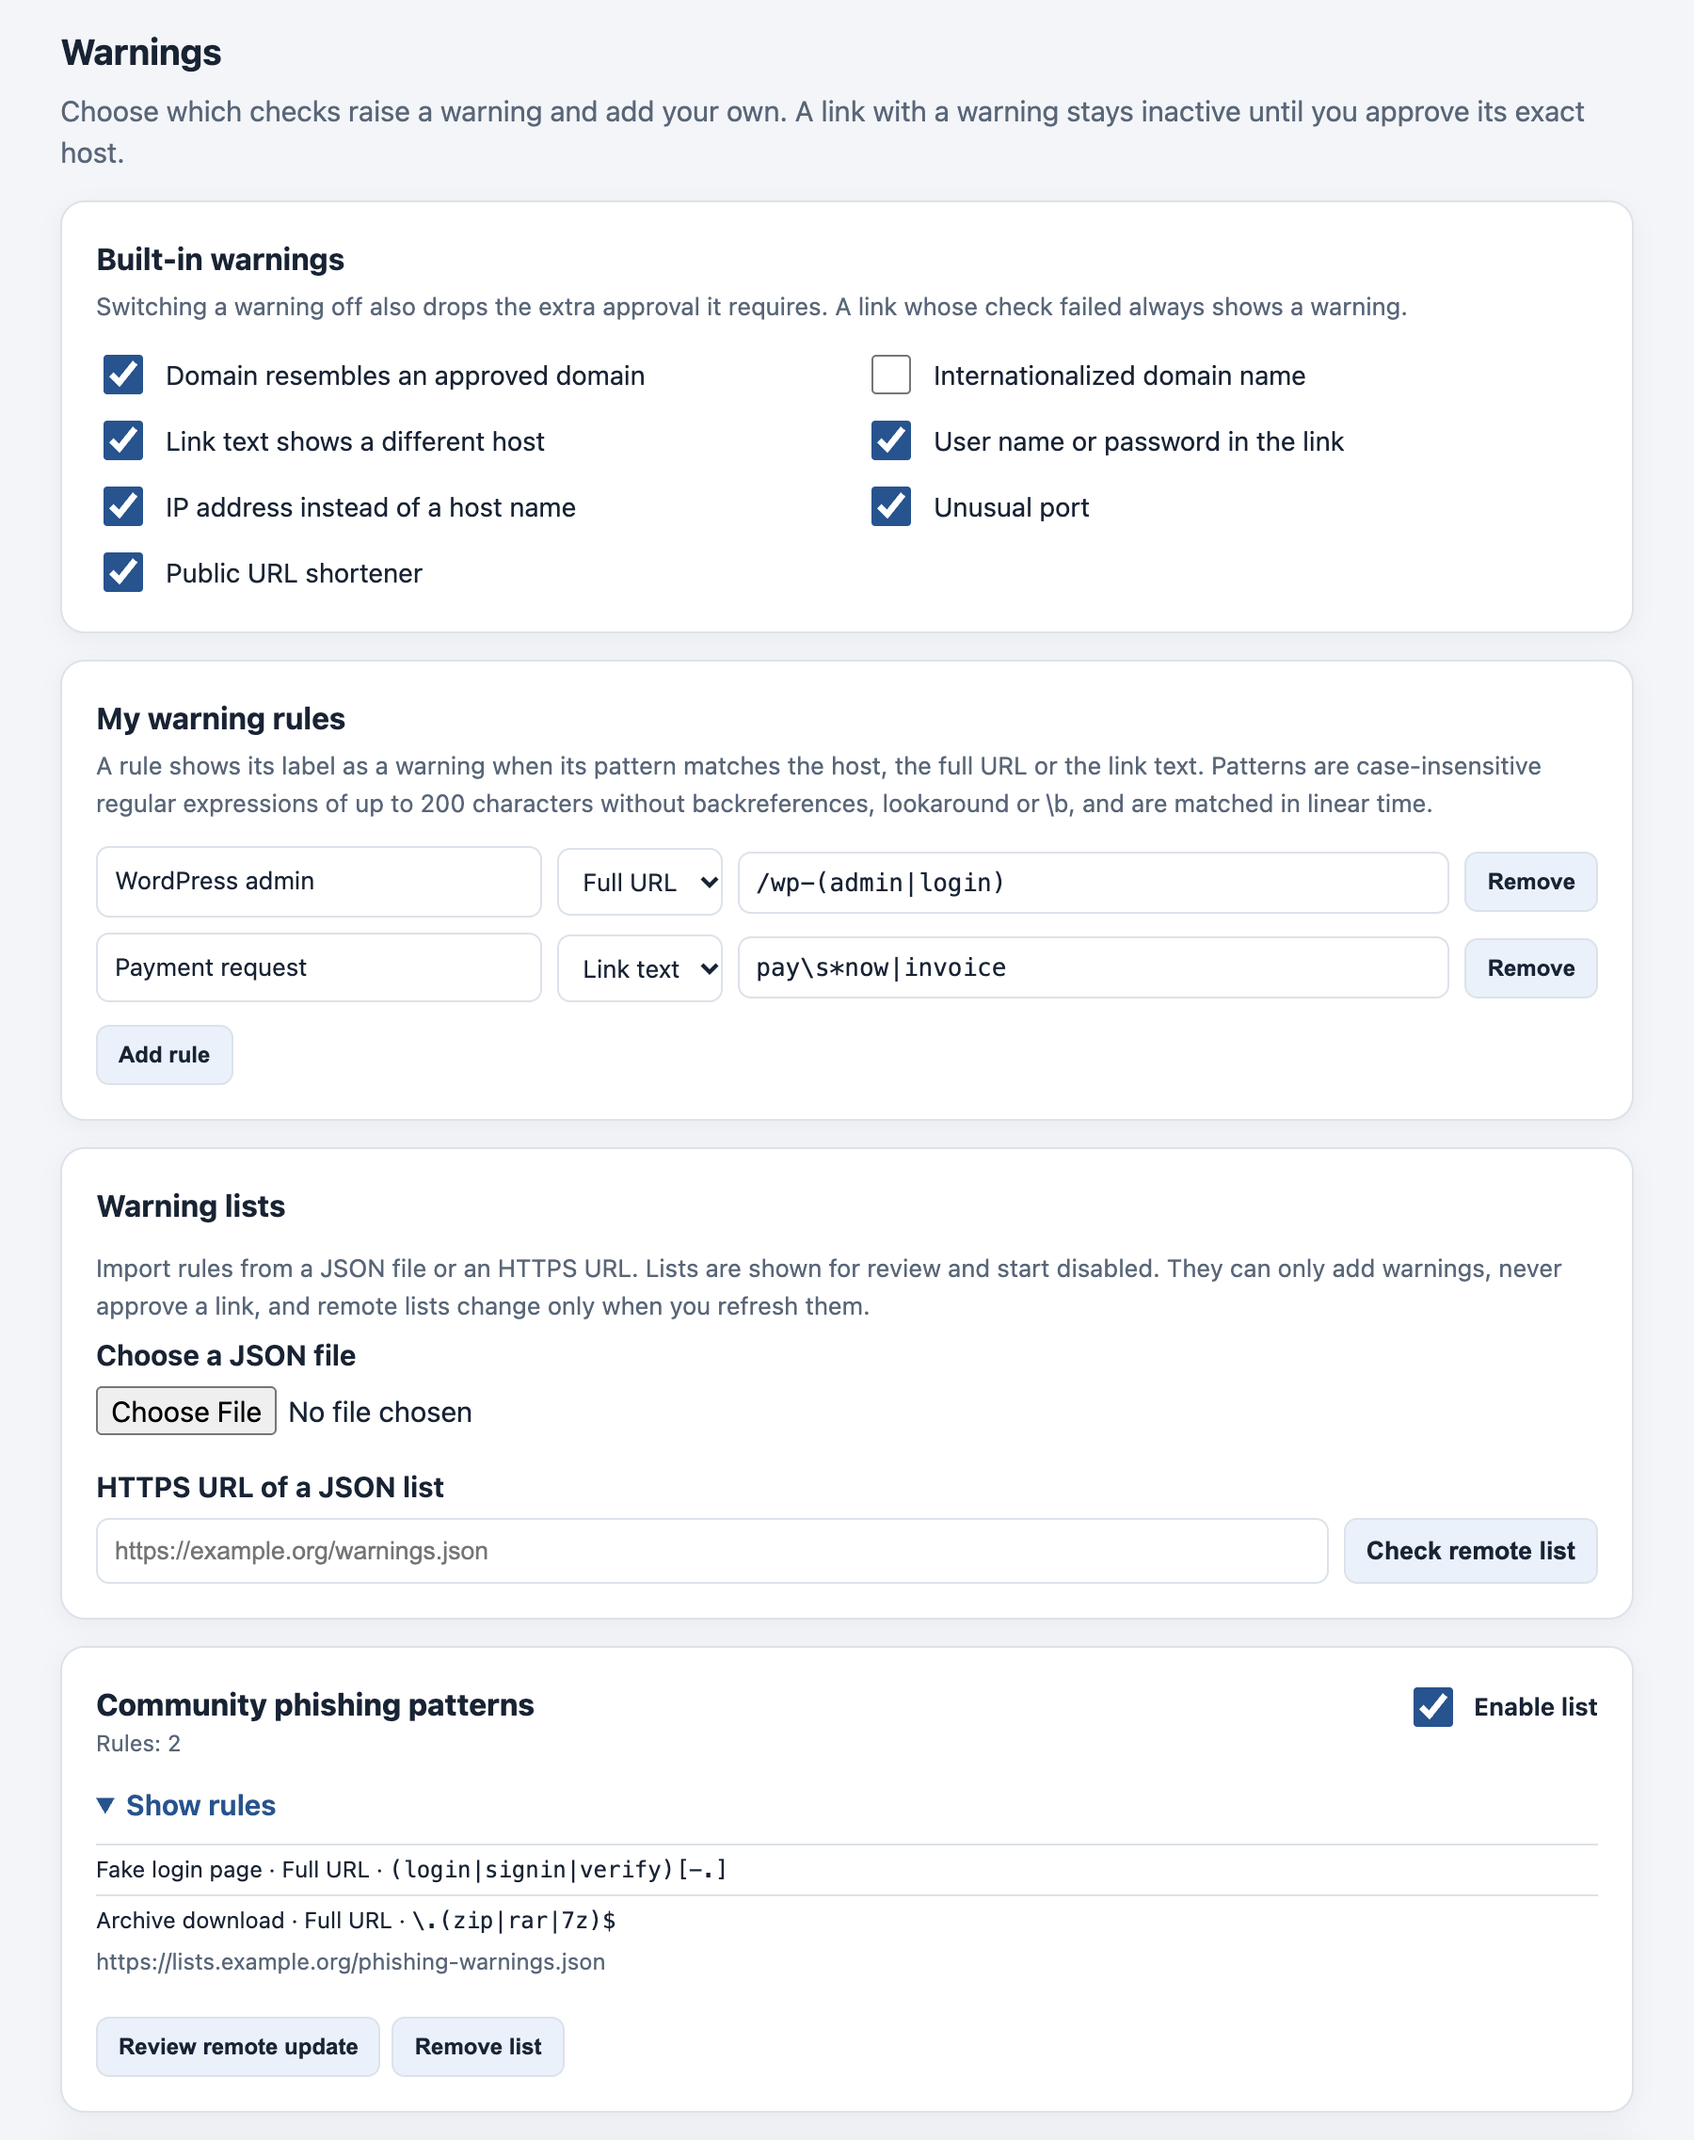
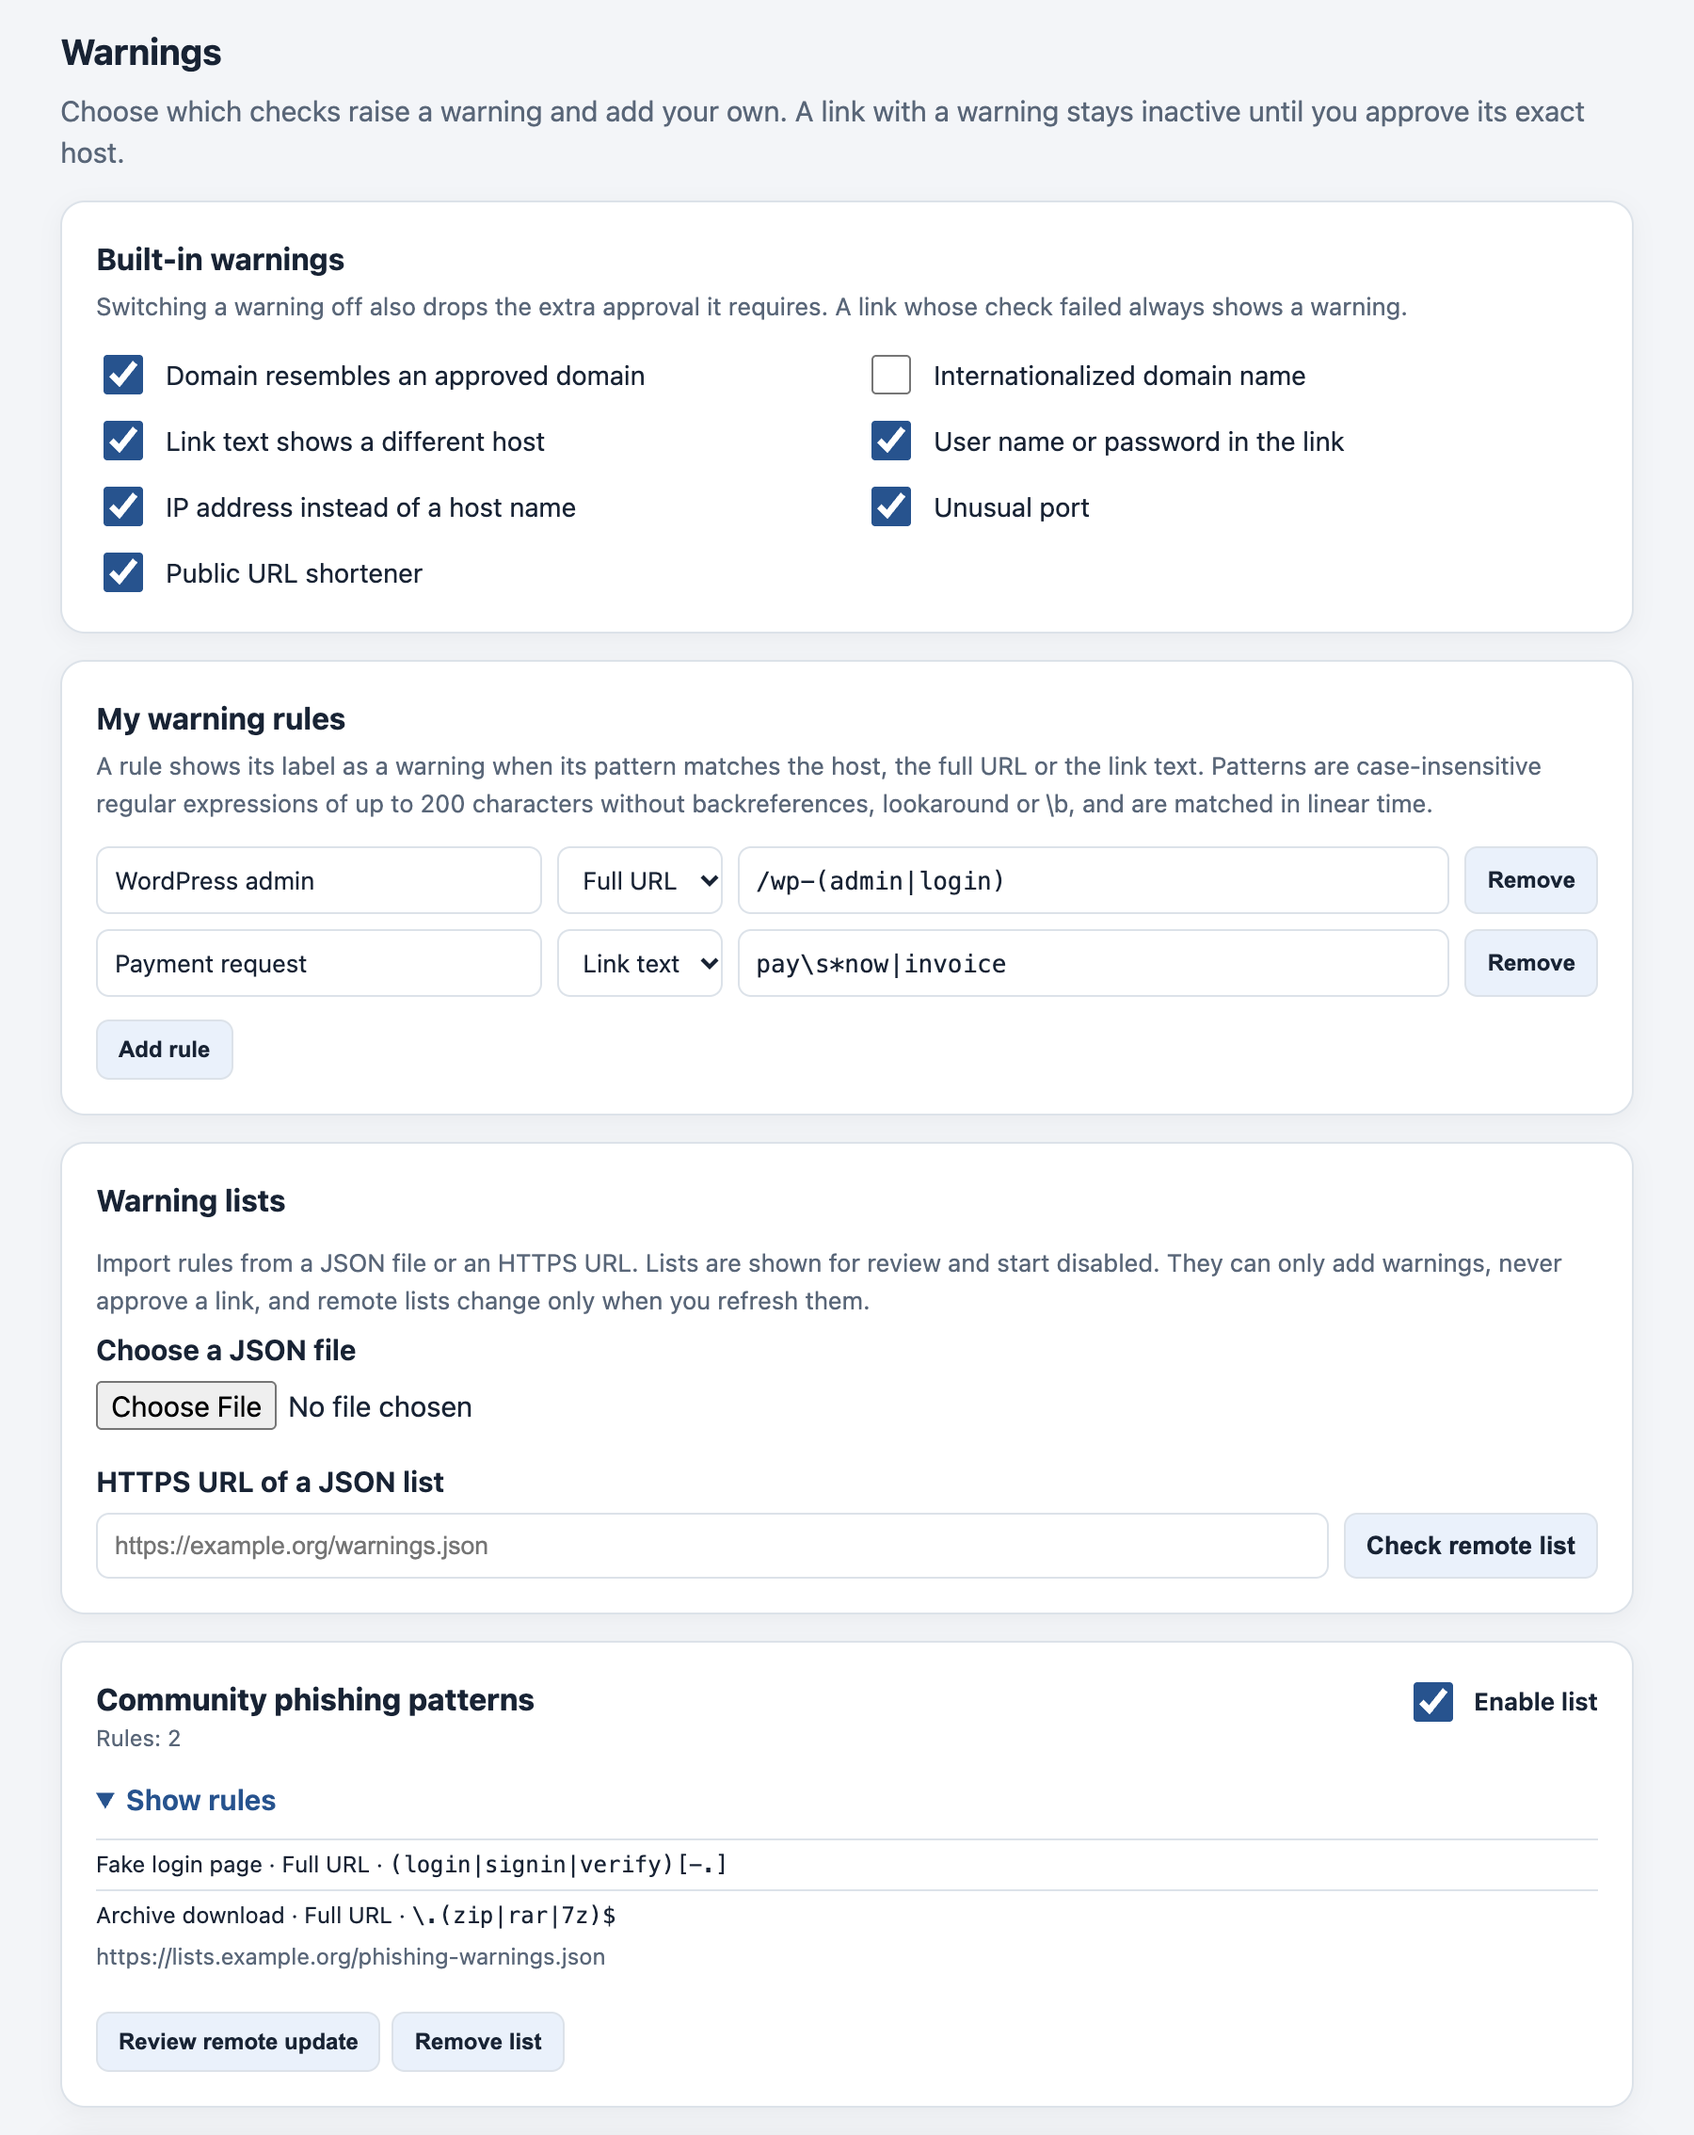
Align input boxes in Settings
Rule cards in the same row now share one height and the hint grows, so the
text boxes start at the same height. Warning rule fields and the remove
button share a fixed height. Refresh the two settings screenshots.

diff --git a/options.css b/options.css
@@ -49,8 +49,9 @@ input[type="checkbox"] { width: 21px; height: 21px; accent-color: #27538e; curso
 .imported-card summary { color: var(--accent); cursor: pointer; font-weight: 650; }
 .imported-card textarea { margin-top: 8px; min-height: 98px; }
 .two-column { display: grid; grid-template-columns: repeat(2, minmax(0, 1fr)); gap: 14px; }
-.list-card { padding: 19px; }
-.list-card p { margin-bottom: 12px; font-size: 13px; }
+/* Cards in a row share one height; the hint grows so the text boxes line up. */
+.list-card { display: flex; flex-direction: column; padding: 19px; }
+.list-card p { flex: 1 0 auto; margin-bottom: 12px; font-size: 13px; }
 .list-card label { display: block; margin-bottom: 6px; font-weight: 650; }
 textarea { display: block; width: 100%; resize: vertical; padding: 10px 11px; border: 1px solid var(--line); border-radius: 7px; background: var(--card); color: var(--text); font: 13px/1.55 ui-monospace, SFMono-Regular, Menlo, monospace; }
 textarea:focus-visible, button:focus-visible, summary:focus-visible { outline: 2px solid var(--accent); outline-offset: 2px; }
@@ -79,9 +80,10 @@ input[type="url"]:focus-visible, input[type="file"]:focus-visible { outline: 2px
 .warning-toggles label { display: flex; align-items: center; gap: 9px; font-size: 14px; cursor: pointer; }
 .rule-list { display: grid; gap: 8px; margin-bottom: 4px; }
 .rule-row { display: grid; grid-template-columns: minmax(0, 1fr) auto minmax(0, 1.6fr) auto; gap: 8px; align-items: center; }
-.rule-row input, .rule-row select { min-width: 0; padding: 8px 9px; border: 1px solid var(--line); border-radius: 7px; background: var(--card); color: var(--text); font: inherit; font-size: 13px; }
+.rule-row input, .rule-row select, .rule-row .imported-action { height: 36px; line-height: 1.2; }
+.rule-row input, .rule-row select { min-width: 0; padding: 0 9px; border: 1px solid var(--line); border-radius: 7px; background: var(--card); color: var(--text); font: inherit; font-size: 13px; }
 .rule-row .rule-pattern { font: 13px ui-monospace, SFMono-Regular, Menlo, monospace; }
-.rule-row .imported-action { margin: 0; }
+.rule-row .imported-action { margin: 0; padding-block: 0; }
 .rule-row input:focus-visible, .rule-row select:focus-visible { outline: 2px solid var(--accent); outline-offset: 2px; }
 .rule-lines { margin: 10px 0 0; padding: 0; list-style: none; font-size: 12px; }
 .rule-lines li { padding: 4px 0; border-top: 1px solid var(--line); overflow-wrap: anywhere; }
